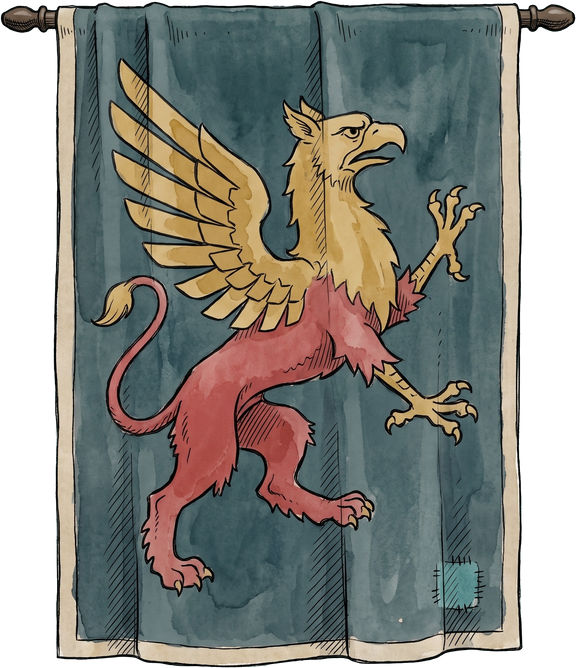
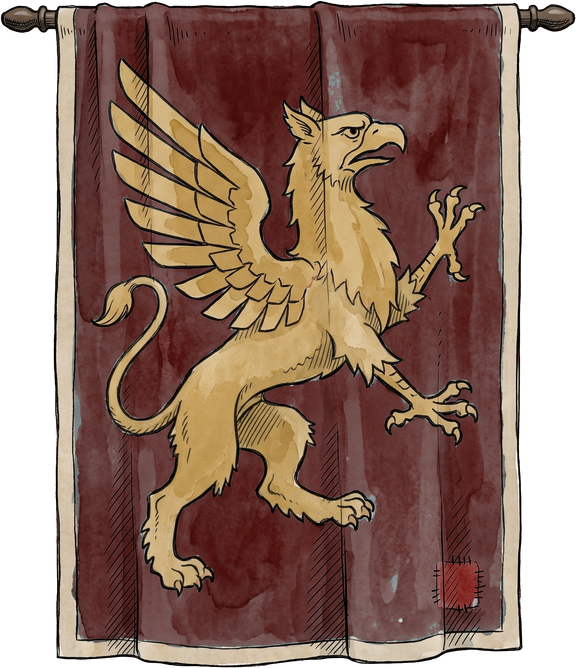
The tapestry recoloured: the whole griffin gold on a dark red field

diff --git a/page/common-room.html b/page/common-room.html
@@ -353,6 +353,10 @@ wall. Both are now mirrored (mirror: true, which flips the texture and so the sh
 stands at x 3.1, z -0.6, the right armchair's old place, so the two flank the fire as a pair, at David's call. The
 wingback no longer frames the bottom right and now casts a shadow like the other chairs. The right armchair and the
 floor cushion are dropped, also David's call: the wingback is the right-hand fireside chair.
+tapestry, recoloured in code: the whole griffin gold on a red field, David's call. Only hue moves, in
+pipeline/recolour.py, from round 3's keyed drawing (assets/sources/tapestry-round3-keyed.png): the blue-green field
+takes a dark faded red, kept dark because a woven picture needs a dark ground, and the lion half takes the eagle
+half's gold. Every line and wash is round 3's. The mended patch is now red too. No round was spent.
 -->
 <canvas id="c" tabindex="0" aria-label="Gryffindor common room greybox"></canvas>
 <div id="hud">
